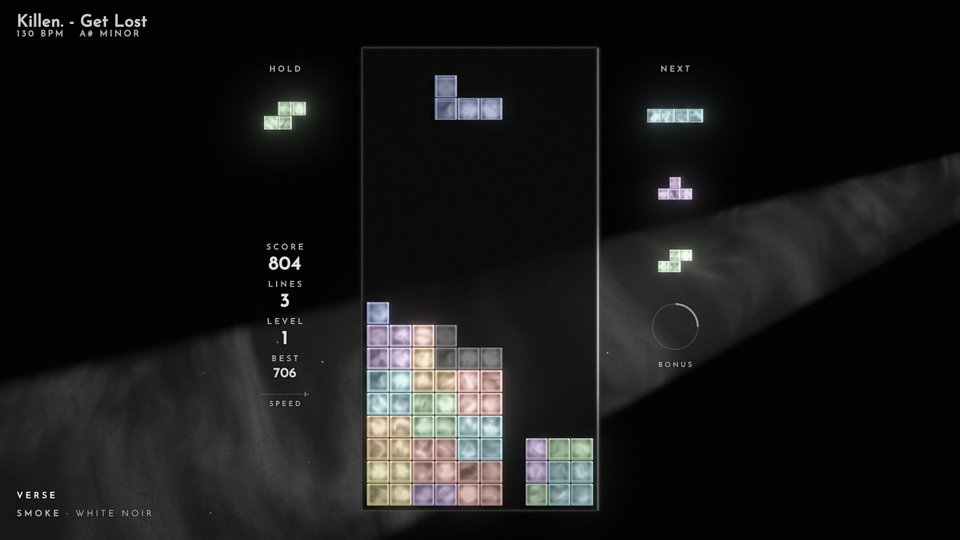
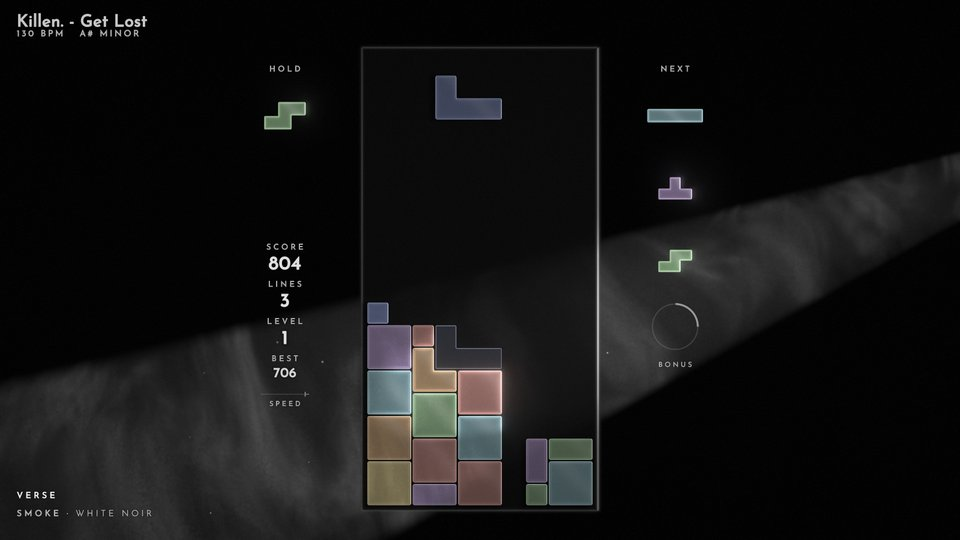
SMOKE: the acrylic slabs (look 2) the game's own blocks; README picture with them
Claude-Session: https://claude.ai/code/session_01TRpCVe8qgHvBr5qwovmpX7

diff --git a/src/universes/smoke/smoke.hpp b/src/universes/smoke/smoke.hpp
@@ -45,12 +45,12 @@ private:
     void tile(float x, float y, float hw, float hh, const vec3& c, float alpha, int kind, float e0 = 1.f, float e1 = 0.f,
               float e2 = 0.f, float e3 = 0.f, float angle = 0.f, float age = -1.f);
 
-    // ---- The block looks (REFALL_SMOKE_BLOCK=0..6; 6, the default, the glass cubes): 0 the satin blocks, 1 props lit by the
+    // ---- The block looks (REFALL_SMOKE_BLOCK=0..6; 2, the default, the acrylic): 0 the satin blocks, 1 props lit by the
     // spotlight, 2 acrylic, 3 neon tubes, 4 boxes of smoke, 5 stage lenses, 6 glass cubes holding smoke. Each cell
     // remembers its piece (its serial), its links to the cells of the same piece (L R U D UL UR DL DR, set when it
     // locks, cut by a clear), its place in the piece and the piece's seed: a block looks the same falling, locked and
     // after rows fall.
-    int blockStyle_ = 6;
+    int blockStyle_ = 2;
     int ids_[22][10] = {};
     unsigned char links_[22][10] = {}, rel_[22][10] = {};
     float pseed_[22][10] = {};
